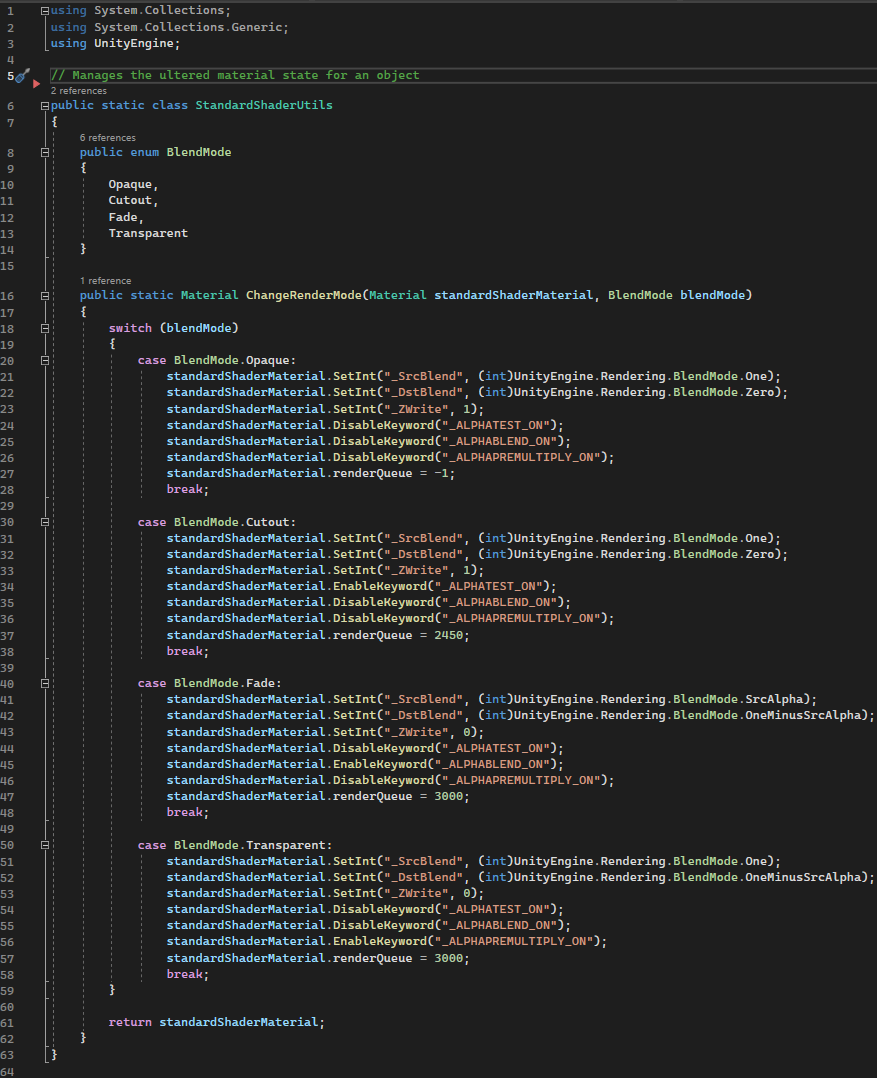
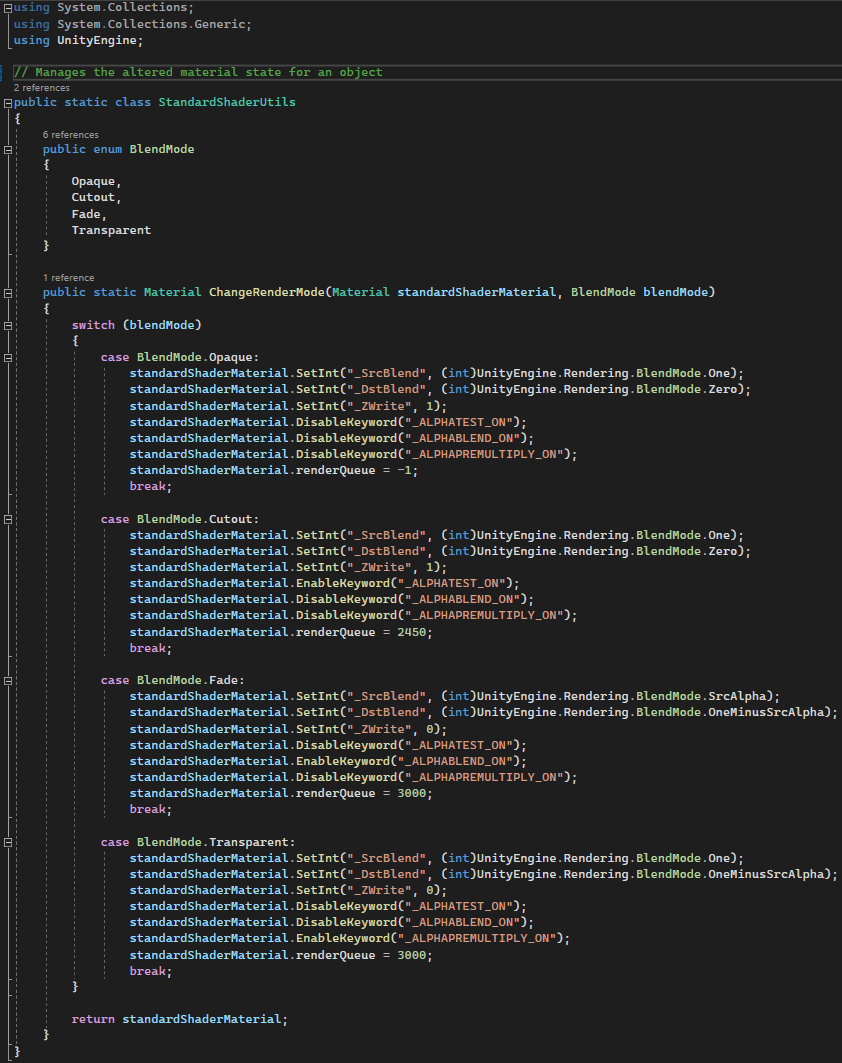
added wiki image

Changed region(s): [[0.0, 0.0, 1.0, 1.0]]

diff --git a/Dodge West/Assets/Scripts/Other/StandardShaderUtils.cs b/Dodge West/Assets/Scripts/Other/StandardShaderUtils.cs
@@ -2,7 +2,7 @@ using System.Collections;
 using System.Collections.Generic;
 using UnityEngine;
 
-// Manages the ultered material state for an object
+// Manages the altered material state for an object
 public static class StandardShaderUtils
 {
     public enum BlendMode
